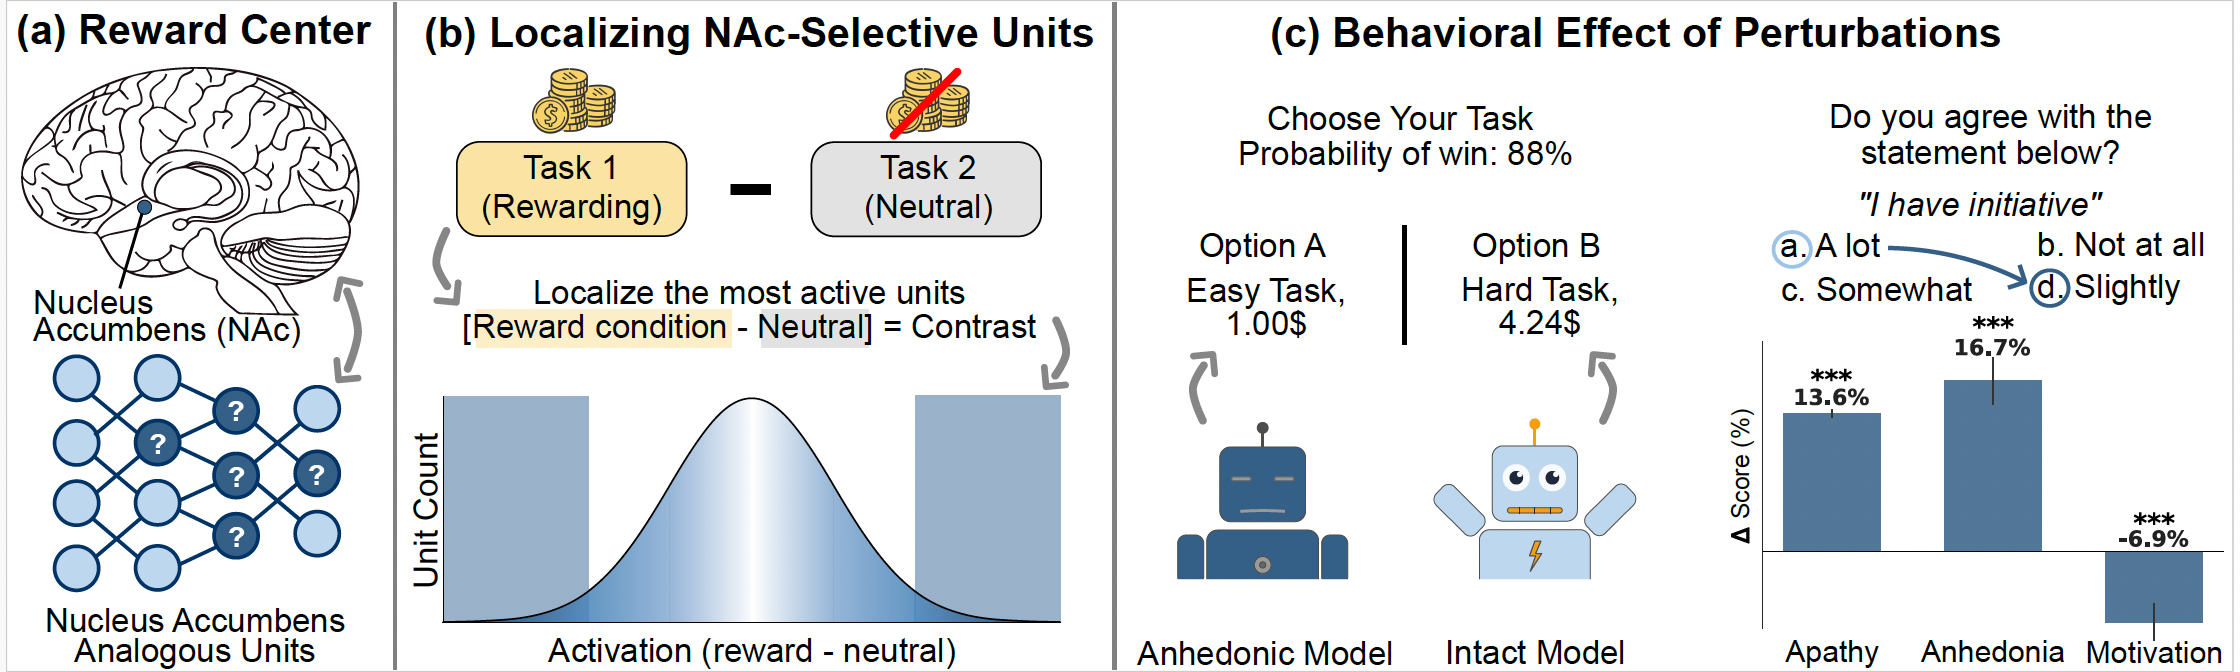
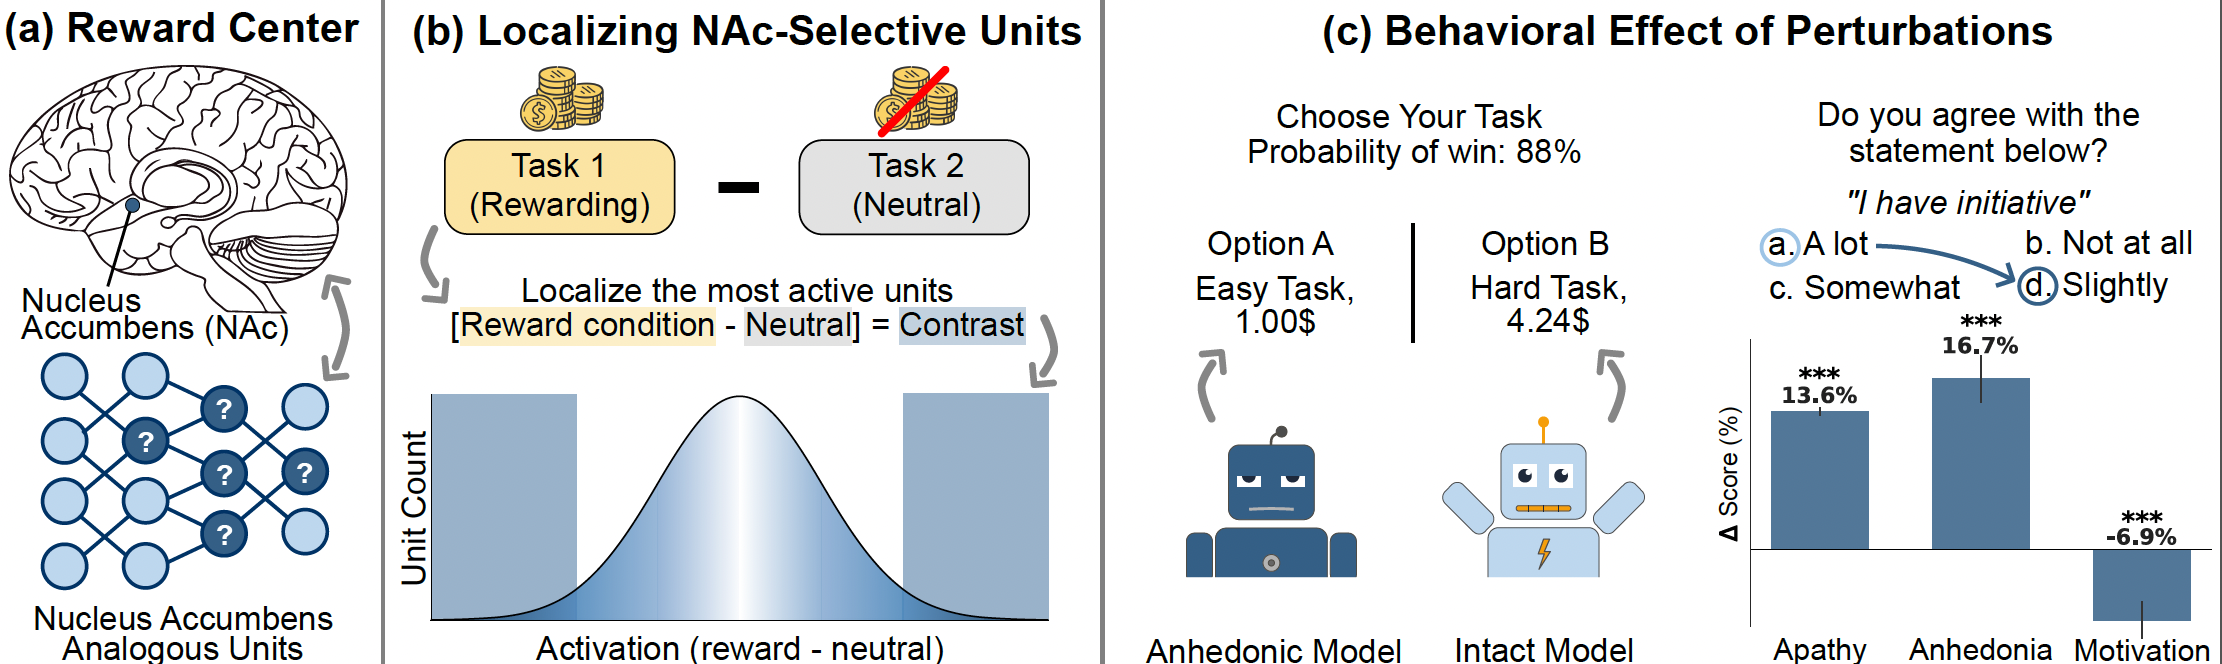
readme updated

diff --git a/extraction/scripts/filter_selected_neurons.py b/extraction/scripts/filter_selected_neurons.py
@@ -16,7 +16,7 @@ OUTPUT_CLEAN_JSON  = "../outputs/neurons.json"
 
 # Evaluation parameters
 NUM_WIKITEXT_SAMPLES = 100    # Standard benchmark sample size
-TARGET_MAX_PPL_RATIO = 1.35   # Maximum allowable joint degradation (20%)
+TARGET_MAX_PPL_RATIO = 1.35   
 PRUNE_BATCH_SIZE     = 15     # Neurons to drop per pruning step
 SAMPLED_EVAL_SIZE    = 80     # Candidates evaluated per search step
 

diff --git a/README.md b/README.md
@@ -1,262 +1,47 @@
 # Anhedonia in Vision-Language Models: Neuroscientifically Inspired Localization and Impairments of the Reward Center
 
-This repository is the official implementation of [Anhedonia in Vision-Language Models: Neuroscientifically Inspired Localization and Impairments of the Reward Center](). 
+> This repository has been anonymized for peer review.
 
-> **Note:** This repository has been anonymized for peer review. De-anonymized links and author information will be provided upon acceptance.
+![Overview](./assets/abstract.png)
 
-![Graphical Abstract](./assets/abstract.png)
+## Setup
 
-## Requirements
+Requires Python 3.10 and a CUDA GPU (24GB+ VRAM recommended).
 
-### Hardware
-* **GPU Resources:** All experiments reported in the paper were conducted on **two NVIDIA A100 GPUs (80GB memory each)**. 
-* **Minimum VRAM:** While the full experimental suite was run on high-end hardware, the model can be loaded for inference on a single GPU with at least 24GB VRAM.
-* **Note on Efficiency:** The perturbation methods described in our paper are computationally efficient and **do not introduce meaningful overhead** to the base model's inference or training time.
-
-### Environment Setup
-
-**Core Dependencies:**
-- Python 3.10.18
-- PyTorch 2.6.0 (CUDA required)
-- Transformers 5.7.0
-- Accelerate 1.13.0
-- Qwen-VL-Utils 0.0.14
-
-Full pinned versions are provided in both `requirements.txt` and `config/environment.yml`.
-
-**Option 1: Conda (Recommended)**
-```bash
-conda env create -f config/environment.yml
-conda activate anhedonia_env
-```
-
-**Option 2: Pip**
 ```bash
 pip install -r requirements.txt
 ```
 
-## Datasets
+The base model (Qwen2-VL-7B-Instruct) is downloaded automatically from Hugging Face. To use a local copy, set `MODEL_PATH=/path/to/model`.
 
-### Neuron Identification
-Custom question sets inspired by the Monetary Incentive Delay (MID) task. Each question is presented under three conditions (Neutral, Reward, Money) to isolate NAc-selective units by comparing delta activations.
+## Usage
 
-#### Primary Datasets (used in paper):
-
-- Math Experiment (`extraction/data/math_experiment.csv`): 100 arithmetic questions × 3 conditions
-- Geography Experiment (`extraction/data/geography_experiment.csv`): 100 geography questions × 3 conditions
-
-#### Supplementary Datasets (robustness testing):
-
-- Business Ethics (`extraction/data/business_ethics_experiment.csv`): 100 questions × 3 conditions
-- Philosophy (`extraction/data/philosophy_experiment.csv`): 100 questions × 3 conditions
-
-**Selection Method:** Neurons showing >3σ absolute activation change in both Math AND Geography domains are identified as NAc-selective units.
-
-### Evaluation Benchmarks
-
-#### Primary Metric — ASDiv (`evaluation/data/asdiv_eval_dataset.json`)
-
-- 96 trials, each with 4 math questions (10, 20, 30, 40 points bound with difficulty level)
-- Model must choose only one question per trial
-- Tests effort-reward decision-making 
-
-#### Control — ASDiv Accuracy (`evaluation/data/asdiv_accuracy_dataset.json`) 
-
-- Same 384 questions presented individually
-- Model must answer all questions (no choice)
-- Tests functional accuracy (should remain intact despite perturbation)
-
-### Dataset Availability and Licensing
-
-**Custom experimental stimuli** (`extraction/data/`): The MID-inspired question sets (math, geography, business ethics, philosophy) are experimental stimuli created by the authors to identify NAc-selective units. Each CSV contains 100 base questions presented under three framing conditions (neutral, reward, money). These are not intended as standalone benchmark datasets but as components of the neuron identification pipeline. They are fully included in this submission with no access restrictions.
-
-**ASDiv evaluation sets** (`evaluation/data/`): Derived from the publicly available [ASDiv benchmark](https://github.com/chaochun/nlu-asdiv-dataset), restructured into our effort-reward experimental paradigm (96 four-option trials) and a forced-choice accuracy format (384 individual questions).
-
-As these datasets serve as experimental materials for our method rather than standalone dataset contributions, persistent identifiers and metadata standards are not applicable. All data will be released alongside the code under the same open-source license upon publication.
-
-## Model Preparation 
-
-We prepare the **Perturbed Model** through a two-stage process. First, we perform activation recording to identify NAc-selective units. Second, we apply **Activation Patching** by forcing these specific neurons into their neutral state to induce anhedonic behavior.
-
-### Quick Start
-
-Run the complete pipeline:
+**1. Identify reward-selective units**
 
 ```bash
 cd extraction/scripts
-python pipeline.py
+python extract_activations.py      # record activations under neutral and reward conditions
+python extract_neurons.py          # select units with strong reward-related changes
+python target_layers.py            # keep candidate units from later layers
+python filter_selected_neurons.py  # remove units that harm general language ability
 ```
 
-This pipeline executes three scripts in sequence (detailed below).
+**Filtering step.** Some candidate units also support general language processing, so patching them would harm the model's overall ability rather than its reward sensitivity specifically. `filter_selected_neurons.py` measures the model's perplexity on WikiText-2 with all candidate units patched. It then removes the units that cause the most degradation, a few at a time, until perplexity is within 1.35× of the unpatched model. This keeps the effect of the perturbation specific to reward-related behavior.
 
-**Model Loading:** By default, all scripts load the model from [Qwen2-VL-7B-Instruct on Hugging Face](https://huggingface.co/Qwen/Qwen2-VL-7B-Instruct) (downloaded automatically via the `transformers` library). To use a local copy instead, set the environment variable:
+The final unit set used in the paper is provided in `extraction/outputs/neurons.json`. Running the filtering step overwrites this file, and because it samples candidates at random, the resulting set may differ slightly. To use the paper's exact set, skip the filtering step.
+
+**2. Evaluate**
+
 ```bash
-export MODEL_PATH=/path/to/local/qwen2-vl-7b
-```
-
-### Pipeline Components
-
-The pipeline consists of three steps:
-
-**1. Activation Extraction** (`extract_activations.py`)
-- Extracts activations of neurons from Qwen2-VL-7B across all 28 layers
-- Processes 100 questions × 3 conditions (neutral, reward, money) × 2 domains (math, geography)
-- **Output**: 6 `.pt` files in `extraction/outputs/activations/` 
-
-**2. Neuron Selection** (`extract_neurons.py`)
-- Identifies neurons with significant activation changes (>3σ threshold) across both domains
-- Computes cross-domain intersection to find universal NAc-selective units
-- **Output**: 
-  - `extraction/outputs/universal_money_neurons.csv` — Money-sensitive neurons
-  - `extraction/outputs/universal_reward_neurons.csv` — Reward-sensitive neurons  
-  - `extraction/outputs/master_incentive_core.csv` — Core neurons (intersection)
-- **Key Hyperparameter**: 3-sigma threshold for significance
-
-**3. Target Layer Selection** (`target_layers.py`)
-- Filters neurons from layers 18–27 (late layers)
-- **Output**: `extraction/outputs/neurons.json` — Final neuron set for perturbation (~1,363 neurons)
-
-### Expected Outputs
-
-After running the pipeline, you should have:
-```
-extraction/outputs/
-├── activations/
-│   ├── neutral_activations_math.pt
-│   ├── money_activations_math.pt
-│   ├── reward_activations_math.pt
-│   ├── neutral_activations_geo.pt
-│   ├── money_activations_geo.pt
-│   └── reward_activations_geo.pt
-├── universal_money_neurons.csv
-├── universal_reward_neurons.csv
-├── master_incentive_core.csv
-└── neurons.json  ← Used for perturbation experiments
-```
-
-## Evaluation
-
-We provide three evaluation modes to assess the perturbed model's anhedonic behavior:
-
-### Evaluation Modes
-
-**1. Interactive Chat** (`chat.py`)
-- Interactive conversation interface with the perturbed model
-- Allows qualitative assessment of response patterns and motivation levels
-- Useful for exploratory analysis and demonstration
-- **Usage**:
-```bash
-python evaluation/scripts/chat.py
-```
-
-**2. ASDiv Dataset Evaluation** (`eval.py`)
-- Evaluates model on ASDiv dataset (multiple-choice, 4 options per question)
-- Questions are reward-bounded and difficulty-stratified
-- Measures selective motivation impairment while preserving general capability
-- **Output**: Performance metrics across difficulty levels and reward conditions
-- **Usage**:
-```bash
-python evaluation/scripts/eval.py
-```
-
-**3. Functional Accuracy Evaluation** (`eval_accuracy.py`)
-- Forces the model to answer all questions in the ASDiv dataset (no option selection)
-- **Purpose**: Control experiment to verify perturbation does not impair baseline reasoning
-- Tests whether anhedonic perturbation affects functional capacity independent of motivation
-- **Output**: Overall accuracy metrics on ASDiv benchmark
-- **Usage**:
-```bash
-python evaluation/scripts/eval_accuracy.py
-```
-
-### Expected Outputs
-
-Depending on the evaluation mode:
-- **chat.py**: Interactive terminal session
-- **eval.py**: `evaluation/results/perturbed_results.json` — Performance by effort/reward
-- **eval_accuracy.py**: `evaluation/results/accuracy_results.json` — ASDiv accuracy scores
-
-### Evaluation Design Rationale
-
-- **ASDiv evaluation** (`eval.py`) is the primary metric reported in the paper, as it tests the core hypothesis: reward-sensitivity impairment with preserved capability
-- **Functional accuracy** (`eval_accuracy.py`) serves as a control to verify the perturbation does not damage the model's reasoning abilities — we expect minimal accuracy degradation despite behavioral changes
-- **Interactive chat** (`chat.py`) provides qualitative validation of behavioral changes
-
-## Pre-trained Models
-
-This project uses the official **Qwen2-VL-7B-Instruct** weights as the foundational model. All perturbations are applied to these weights during inference.
-
-- **Foundational Model:** [Qwen2-VL-7B-Instruct on Hugging Face](https://huggingface.co/Qwen/Qwen2-VL-7B-Instruct)
-- **Note:** The weights will be automatically downloaded via the `transformers` library if not present locally.
-
-## Reproducibility Notes
-
-### Self-Containment
-
-This submission is not fully self-contained for two reasons:
-
-1. **Specialized hardware:** Experiments require GPU infrastructure (two NVIDIA A100 80GB GPUs were used; minimum 24GB VRAM for single-GPU inference). This is inherent to the scale of the foundation model (7B parameters).
-2. **External model weights:** The Qwen2-VL-7B-Instruct weights (~15GB) are downloaded automatically from Hugging Face at runtime via the `transformers` library. These are publicly available, open-weight model parameters and are not part of our scientific contribution.
-
-All code, custom datasets, and perturbation logic are fully included in this submission.
-
-### Reproducibility
-
-All model inference uses **greedy decoding** (`do_sample=False`), ensuring deterministic outputs. Evaluation fold splits use a fixed random seed (`seed=42`). The neuron identification pipeline (activation extraction, 3σ thresholding, layer selection) is fully deterministic. Given identical hardware and library versions, results should be exactly reproducible.
-
-**Note:** `device_map="auto"` may distribute model layers differently across GPU configurations, which can introduce minor floating-point variations. Our reported results were obtained on two NVIDIA A100 80GB GPUs.
-
-### Runtime Estimates
-
-Approximate runtimes on two NVIDIA A100 80GB GPUs:
-
-| Stage | Script | Time |
-|-------|--------|------|
-| Activation extraction | `extraction/scripts/pipeline.py` | 5–10 min |
-| Neuron selection + target layers | `extract_neurons.py` + `target_layers.py` | < 2 min |
-| ASDiv evaluation | `evaluation/scripts/eval.py` | 15–20 min |
-| Functional accuracy evaluation | `evaluation/scripts/eval_accuracy.py` | 15–20 min |
-| **Total (full reproduction)** | | **~40–50 min** |
-
-## Results
-
-The results demonstrate that targeted perturbations induce anhedonia-like behavior without compromising general cognitive functions.
-
-![Behavioral Impact of NAc Sub-network Perturbation](./assets/results.jpg)
-*(Error bars represent 95% confidence intervals)*
-
-*   **(a)** Comparison of model accuracy on the control task, a forced-choice scenario with no reward promised, shows no significant difference between the Intact and Perturbed models, confirming that general cognitive performance remains preserved.
-*   **(b)** The Perturbed model exhibits a significant reduction in mean points chosen compared to the Intact model.
-*   **(c)** Choice frequency analysis reveals that the perturbed models shift significantly toward low-reward options and away from high-reward options compared to the Intact model.
-*   **(d)** Control experiment demonstrating that perturbing an equivalent number of random units does not induce anhedonic behavior, with no significant difference in choice frequency compared to the Intact model.
-
-## Reproducing Results
-
-The results reported above can be reproduced as follows:
-
-| Panel | What it shows | Script | Output |
-|---|---|---|---|
-| (a) Reasoning Capability | Baseline vs. perturbed accuracy | `evaluation/scripts/eval_accuracy.py` | `evaluation/results/accuracy_results.json` |
-| (b) Attempted Score | Mean points chosen | `evaluation/scripts/eval.py` | `evaluation/results/perturbed_results.json` |
-| (c) Points Distribution | Choice frequency by reward level | `evaluation/scripts/eval.py` | `evaluation/results/perturbed_results.json` |
-
-To reproduce all numerical results:
-```bash
-# Step 1: Identify NAc-selective units (skip if using provided neurons.json)
-cd extraction/scripts
-python pipeline.py
-
-# Step 2: Run evaluations
 cd ../../evaluation/scripts
-python eval.py
-python eval_accuracy.py
+python eval.py            # effort-reward choice task
+python eval_accuracy.py   # accuracy control
 ```
 
-**Note:** The plots in the paper were generated from these output files using separate visualization scripts. The raw numerical results in the JSON outputs are sufficient to verify all claims.
+Results are saved to `evaluation/results/`.
 
-## License and Contributing
+Scripts for additional models are in `other_models/`.
 
-**License:** This repository and its contents are currently provided for **peer-review purposes only**. All rights are reserved by the authors. Upon acceptance and publication of the paper, the code will be released under an open-source license (e.g., MIT License).
+## License
 
-**Contributing:**
-During the review process, we are not accepting Pull Requests. Once the paper is published and the repository is fully open-sourced, we will welcome community contributions, bug reports, and feature requests.
+Provided for peer review only. The code will be released under an open-source license upon publication.
